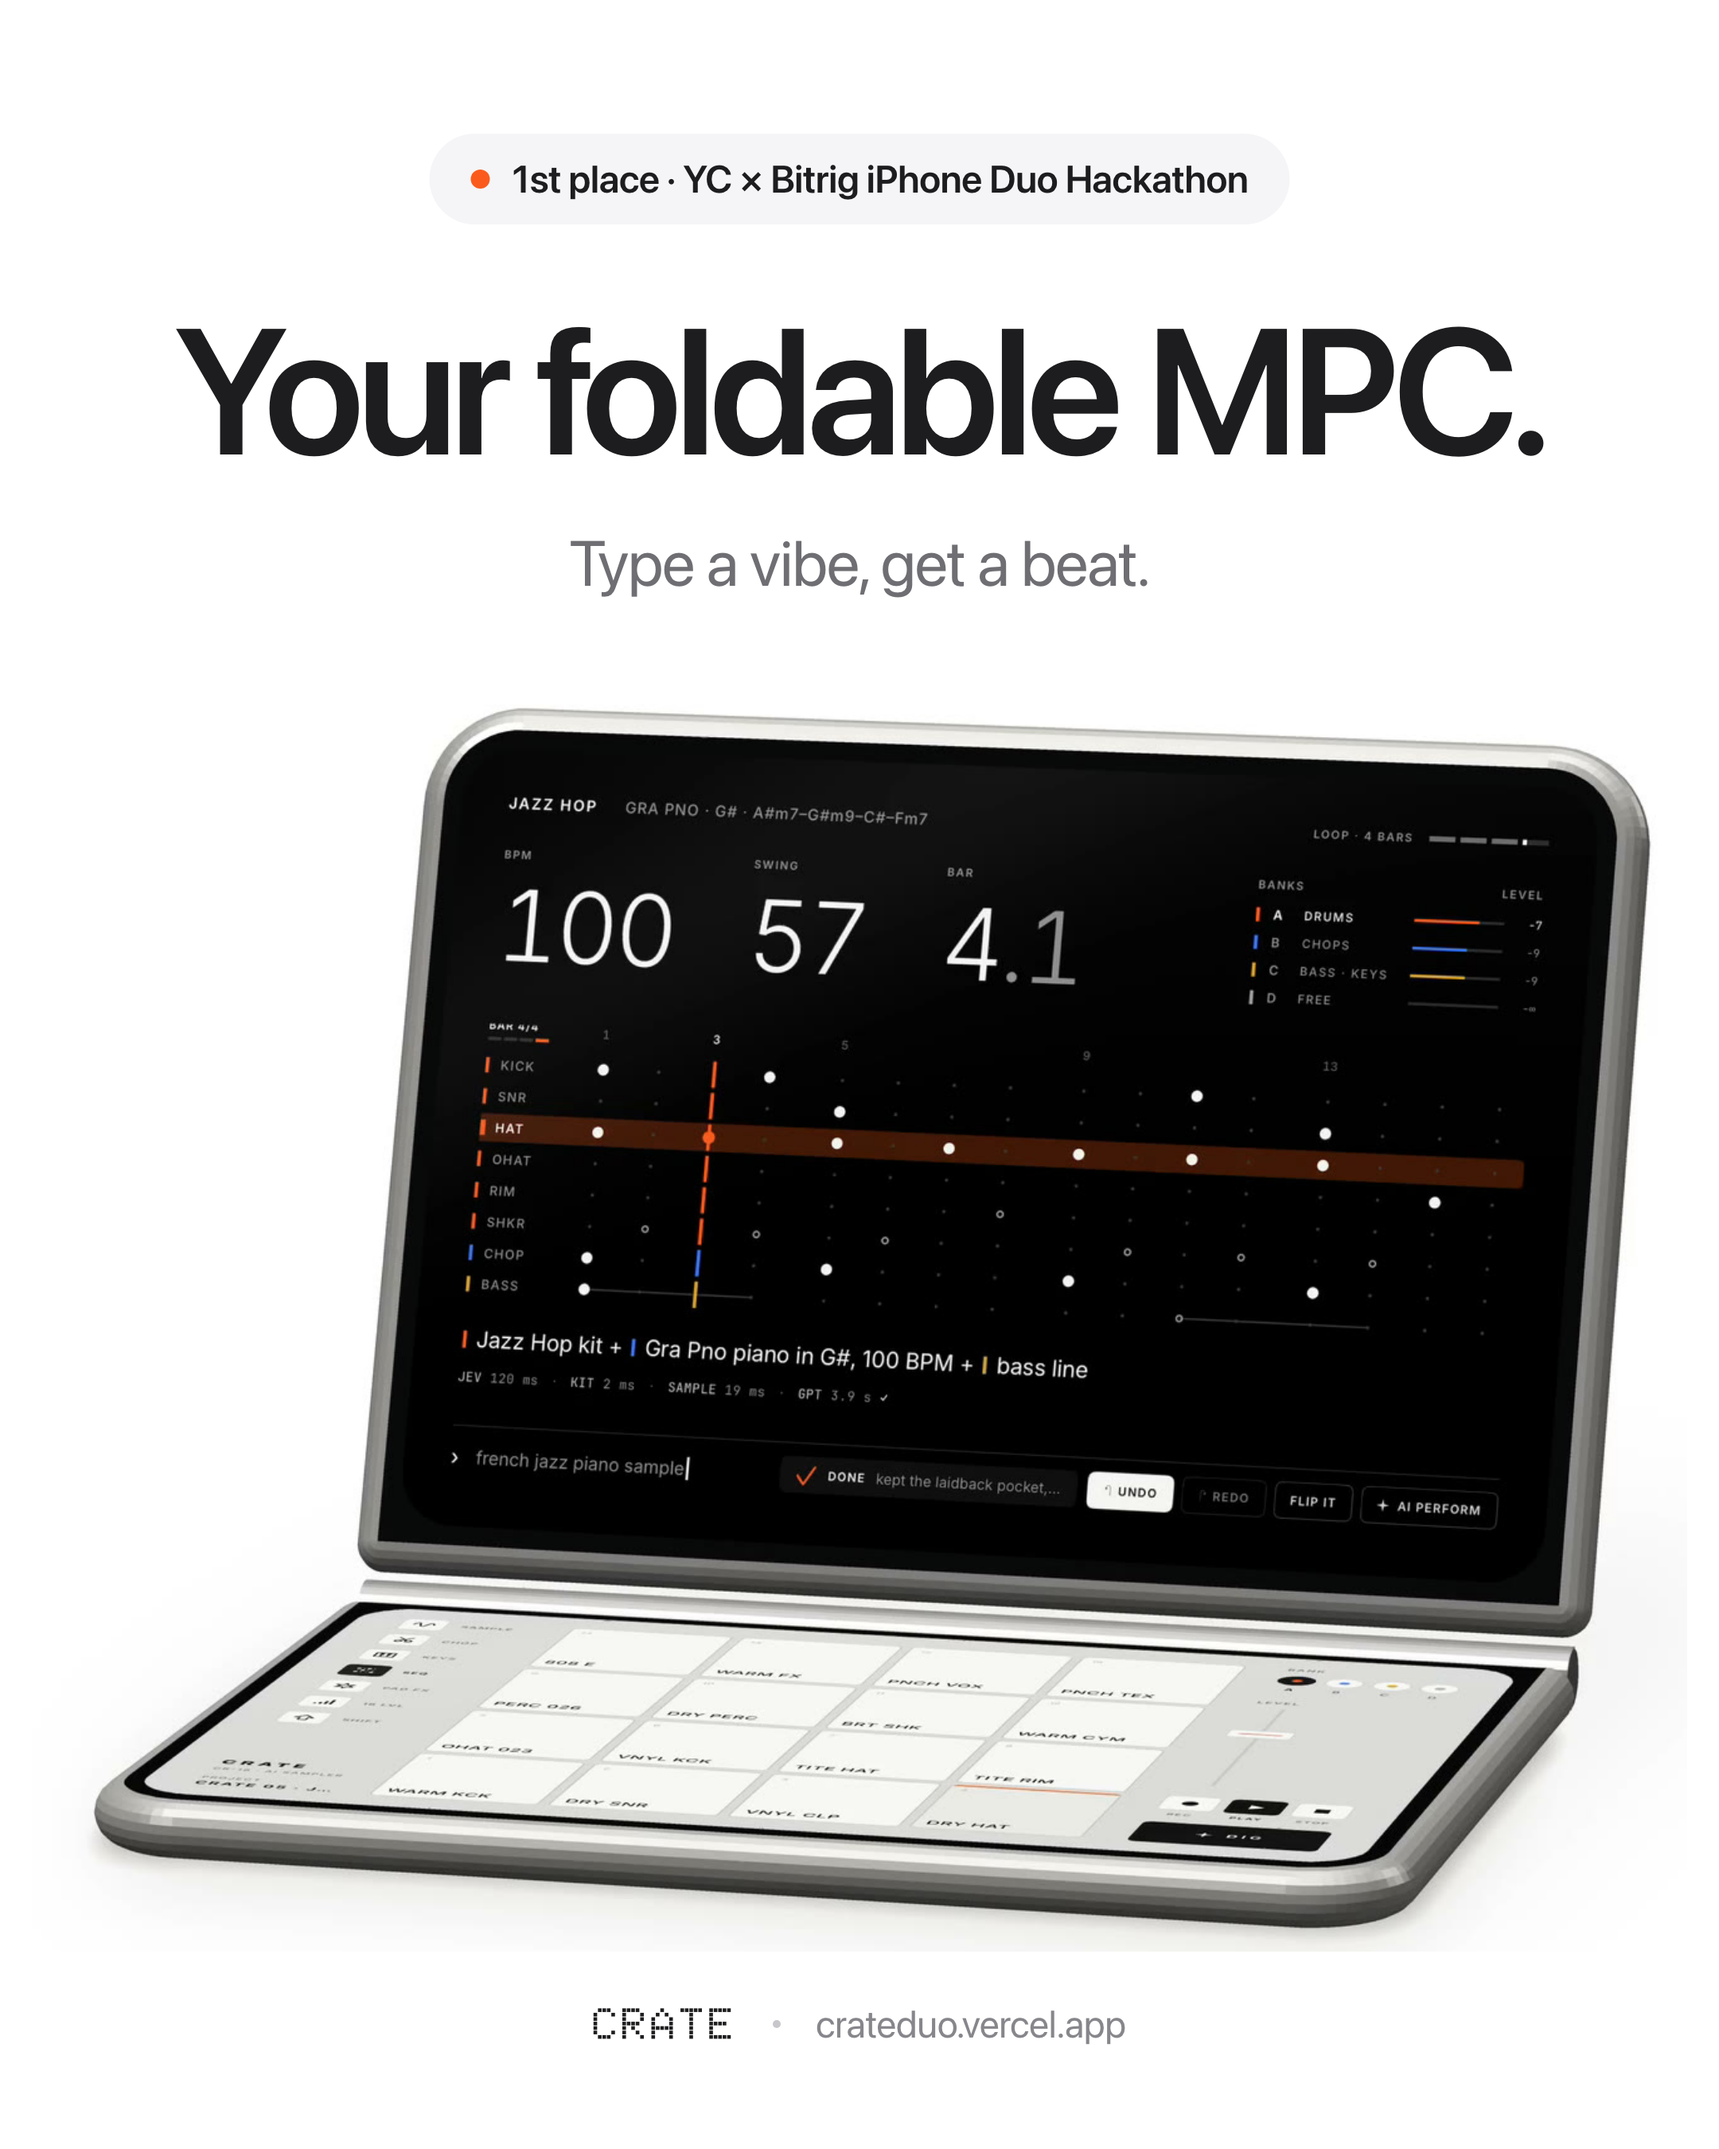
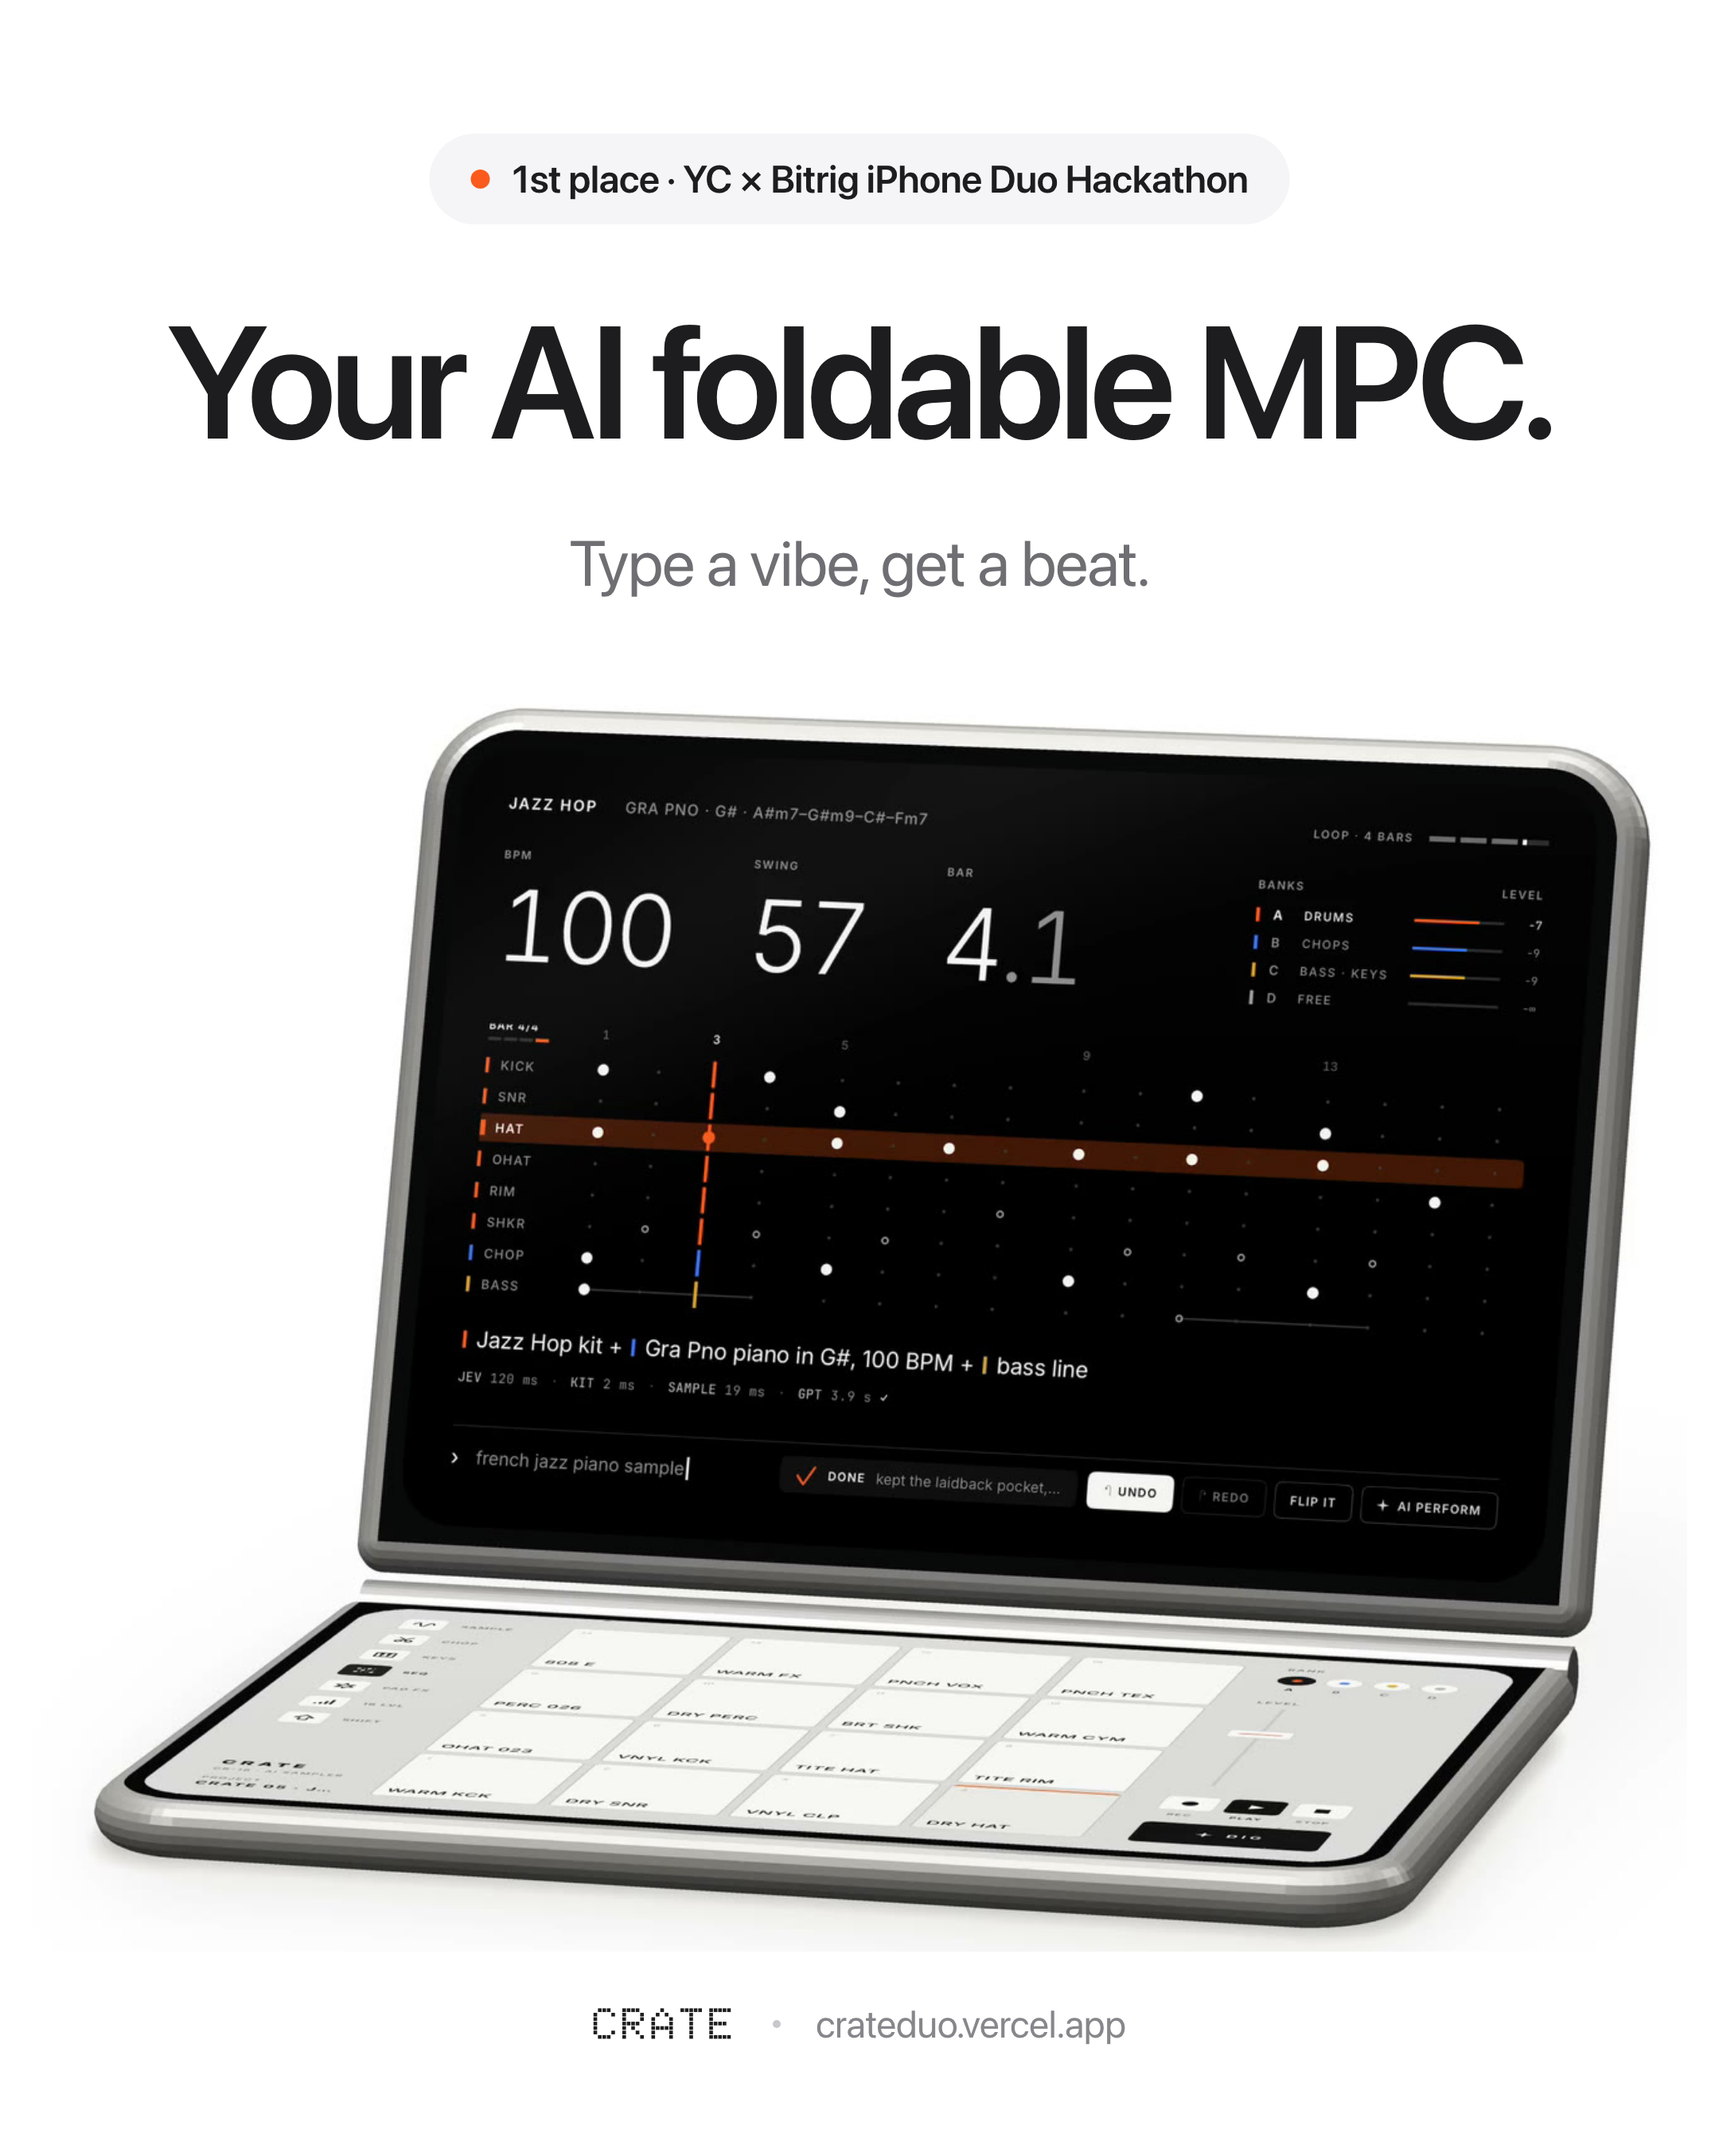
Headline: Your AI foldable MPC.

Changed region(s): [[0.0931, 0.1244, 0.8995, 0.2178]]

diff --git a/demo/poster/poster.html b/demo/poster/poster.html
@@ -6,7 +6,7 @@
   .badge{position:absolute;top:84px;left:50%;transform:translateX(-50%);display:inline-flex;align-items:center;gap:14px;
     padding:14px 26px;border-radius:999px;background:#f5f5f7;font-size:24px;font-weight:600;letter-spacing:-.005em;white-space:nowrap}
   .badge i{width:12px;height:12px;border-radius:50%;background:#fa5b1c;display:block}
-  h1{position:absolute;top:190px;left:0;right:0;margin:0;font-size:112px;font-weight:600;letter-spacing:-.035em;line-height:1}
+  h1{position:absolute;top:190px;left:0;right:0;margin:0;font-size:100px;font-weight:600;letter-spacing:-.035em;line-height:1}
   .sub{position:absolute;top:330px;left:0;right:0;margin:0;font-size:40px;color:#6e6e73;letter-spacing:-.012em}
   img{position:absolute;top:430px;left:50%;transform:translateX(-50%);width:1040px;height:auto}
   .foot{position:absolute;bottom:64px;left:0;right:0;display:flex;justify-content:center;align-items:center;gap:22px;font-size:24px;color:#86868b}
@@ -14,7 +14,7 @@
   .dot{width:5px;height:5px;border-radius:50%;background:#c7c7cc}
 </style></head><body>
   <div class="badge"><i></i>1st place · YC × Bitrig iPhone Duo Hackathon</div>
-  <h1>Your foldable MPC.</h1>
+  <h1>Your AI foldable MPC.</h1>
   <p class="sub">Type a vibe, get a beat.</p>
   <img src="crate-duo.jpg" alt="">
   <div class="foot"><span class="mark">CRATE</span><span class="dot"></span><span>crateduo.vercel.app</span></div>

diff --git a/site/index.html b/site/index.html
@@ -4,8 +4,8 @@
 <meta charset="utf-8">
 <meta name="viewport" content="width=device-width, initial-scale=1, viewport-fit=cover">
 <title>CRATE</title>
-<meta name="description" content="Your foldable MPC. Type a vibe, get a beat.">
-<meta property="og:title" content="CRATE · Your foldable MPC">
+<meta name="description" content="Your AI foldable MPC. Type a vibe, get a beat.">
+<meta property="og:title" content="CRATE · Your AI foldable MPC">
 <meta property="og:description" content="Type a vibe, get a beat. An AI sampler for iPhone Duo.">
 <meta property="og:image" content="/crate-duo.jpg">
 <meta name="twitter:card" content="summary_large_image">
@@ -76,7 +76,7 @@
 <body>
 <main>
   <div class="mark" aria-label="CRATE"><i></i>CRATE</div>
-  <h1>Your foldable MPC.</h1>
+  <h1>Your AI foldable MPC.</h1>
   <p class="sub">Type a vibe, get a beat.</p>
 
   <form id="waitlist" novalidate>
